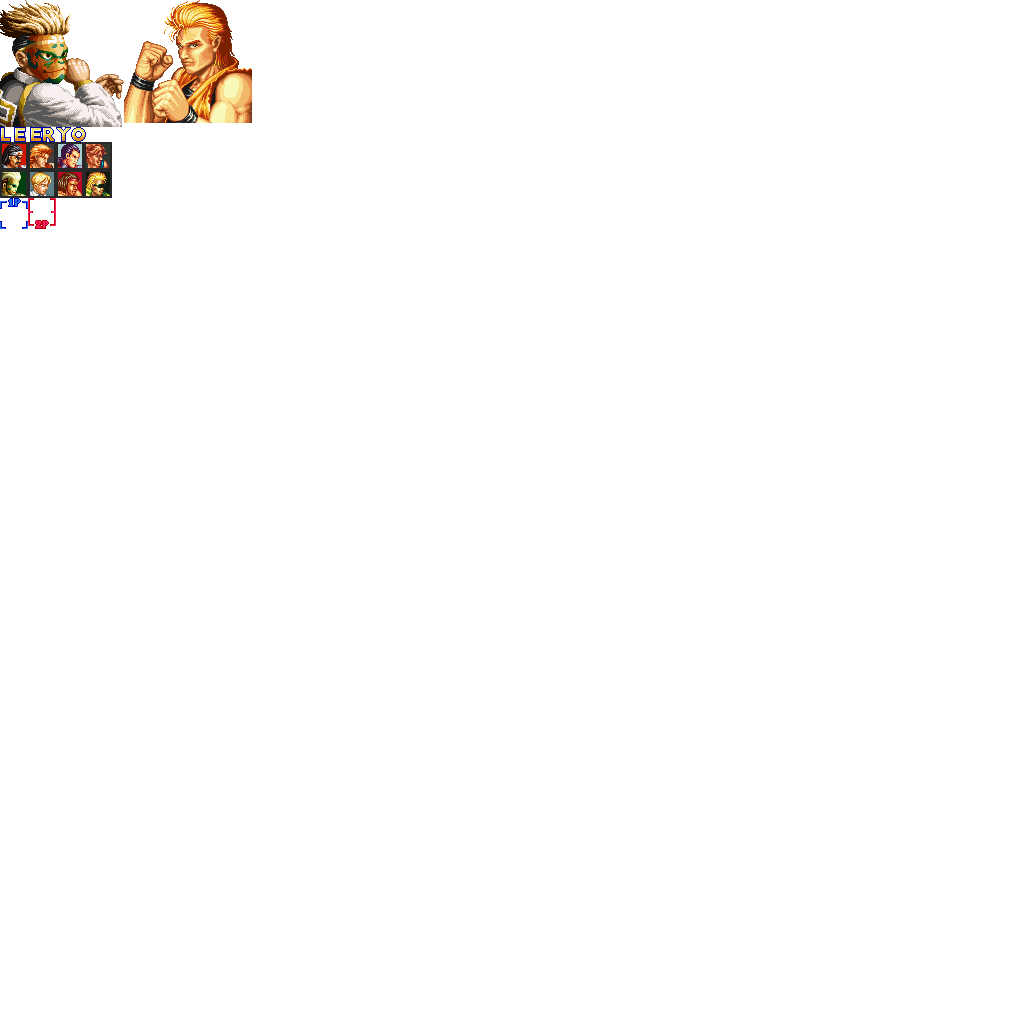
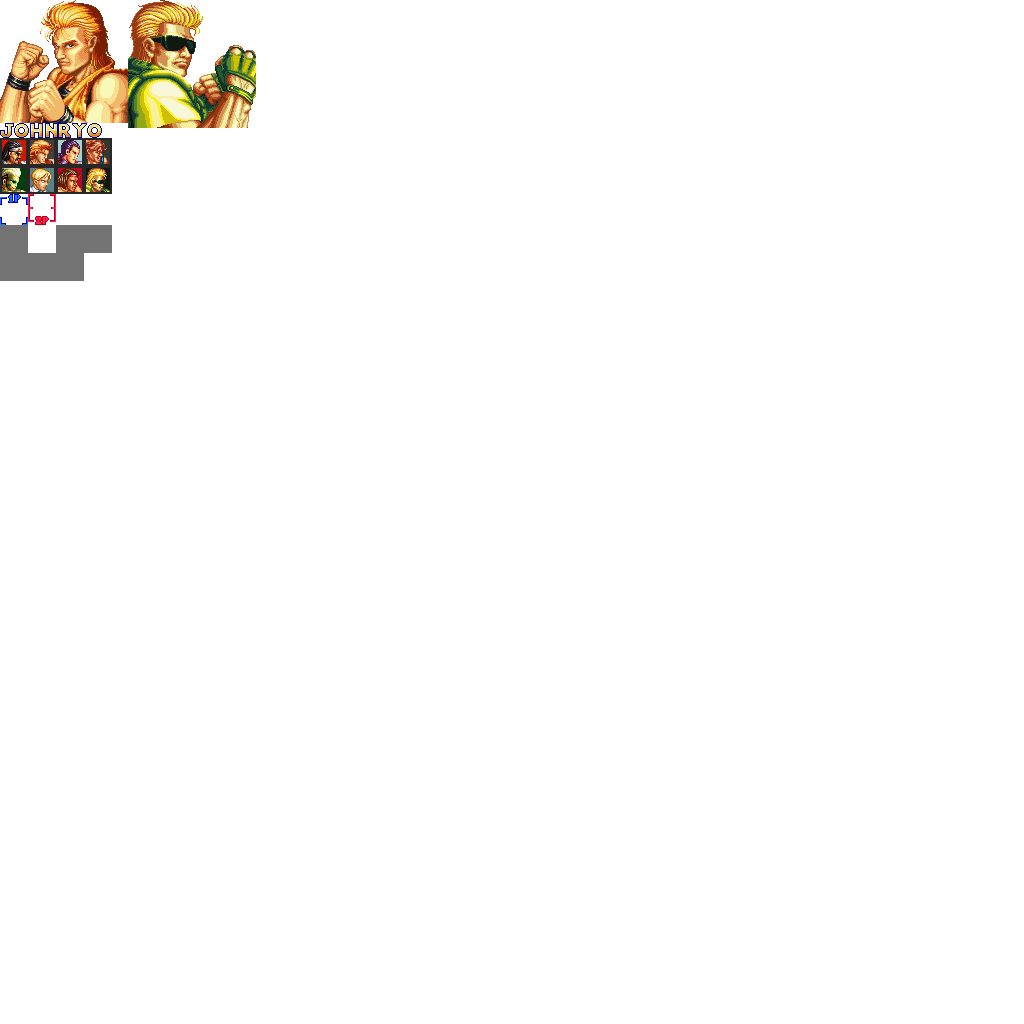
character selection (95%)

Changed region(s): [[0.0, 0.0, 0.25, 0.2812]]

diff --git a/Project_Art_Of_Fighting/ModuleCharacter_Selection.cpp b/Project_Art_Of_Fighting/ModuleCharacter_Selection.cpp
@@ -20,29 +20,44 @@ ModuleScreenSelection::ModuleScreenSelection() {
 	back.y = 0;
 
 	characters.rect.x = 0;
-	characters.rect.y = 142;
+	characters.rect.y = 138;
 	characters.rect.w = 112;
 	characters.rect.h = 56;
 
 	selector1.rect.x = 0;
-	selector1.rect.y = 198;
+	selector1.rect.y = 194;
 	selector1.rect.h = 31;
 	selector1.rect.w = 28;
 
 	selector2.rect.x = 28;
-	selector2.rect.y = 198;
+	selector2.rect.y = 194;
 	selector2.rect.h = 31;
 	selector2.rect.w = 28;
 
-	imageSelection1.rect.x = 124;
+	imageSelection1.rect.x = 0;
 	imageSelection1.rect.y = 0;
 	imageSelection1.rect.w = 128;
 	imageSelection1.rect.h = 123;
 
-	imageSelection2.rect.x = 0;
+	imageSelection2.rect.x = 128;
 	imageSelection2.rect.y = 0;
-	imageSelection2.rect.w = 124;
-	imageSelection2.rect.h = 127;
+	imageSelection2.rect.w = 128;
+	imageSelection2.rect.h = 128;
+
+	name1.rect.x = 0;
+	name1.rect.y = 123;
+	name1.rect.w = 58;
+	name1.rect.h = 15;
+
+	name2.rect.x = 58;
+	name2.rect.y = 123;
+	name2.rect.w = 44;
+	name2.rect.h = 15;
+
+	not_available.rect.x = 0;
+	not_available.rect.y = 225;
+	not_available.rect.w = 112;
+	not_available.rect.h = 56;
 }
 ModuleScreenSelection::~ModuleScreenSelection() {
 
@@ -69,17 +84,16 @@ update_status ModuleScreenSelection::Update() {
 	sprintf_s(time_char, 10, "%.0i", time_int);
 
 
-
+	choose();
 	draw();
 	move();
-	choose();
 	timer();
 	
 
 	return UPDATE_CONTINUE;
 }
 bool ModuleScreenSelection::CleanUp() {
-
+	//App->textures->Unload(graphics);
 	return true;
 }
 
@@ -146,13 +160,14 @@ void ModuleScreenSelection::timer() {
 	tick2 = SDL_GetTicks();
 }
 void ModuleScreenSelection::draw() {
-	App->render->Blit(graphics, (SCREEN_WIDTH / 2) - 56, (SCREEN_HEIGHT / 2) + 20, &characters); //Print Characters
-	App->fonts->BlitText((SCREEN_WIDTH / 2) - 83, 20, 1, "vs mode select player"); //Imprimir font de adalt. bug. no carga la font.
+	App->render->Blit(graphics, (SCREEN_WIDTH / 2) - 56, (SCREEN_HEIGHT / 2) + 50, &characters); //Print Characters
+	App->render->Blit(graphics, (SCREEN_WIDTH / 2) - 56, (SCREEN_HEIGHT / 2) + 50, &not_available); //Print Characters
+	App->render->Blit(graphics, X_SELECTOR_1, Y_SELECTOR_1, &selector1);
+	App->render->Blit(graphics, X_SELECTOR_2, Y_SELECTOR_2, &selector2);
+	App->fonts->BlitText((SCREEN_WIDTH / 2) - 83, 15, 1, "vs mode select player"); //Imprimir font de adalt. bug. no carga la font.
 	App->fonts->BlitText((SCREEN_WIDTH / 2) - 16, SCREEN_HEIGHT / 2 - 40, 2, "time");
 	App->fonts->BlitText((SCREEN_WIDTH / 2) - 8, SCREEN_HEIGHT / 2 - 32, 2, "0");
 	App->fonts->BlitText((SCREEN_WIDTH / 2), SCREEN_HEIGHT / 2 - 32, 2, time_char);
-	App->render->Blit(graphics, X_SELECTOR_1, Y_SELECTOR_1, &selector1);
-	App->render->Blit(graphics, X_SELECTOR_2, Y_SELECTOR_2, &selector2);
 }
 void ModuleScreenSelection::choose() {
 	if (((s1_pos_x == 2 && s2_pos_x == 4) || (s1_pos_x == 4 && s2_pos_x == 2)) && App->input->keyboard_state[SDL_SCANCODE_RETURN] == KEY_DOWN) {
@@ -160,16 +175,32 @@ void ModuleScreenSelection::choose() {
 			App->fade->FadeToBlack(App->character_selection, App->scene_john);
 		}
 	}
-
+	//RYO
 	if (s1_pos_x == 2 && s1_pos_y == 1) {
-		App->render->Blit(graphics, 0, 20, &imageSelection1, 1.0f, 2);
+		App->render->Blit(graphics, 35, 15, &imageSelection1, 1.0f, 2);
+		App->render->Blit(graphics, 77, 140, &name2, 1.0f, 1);
 		if (s2_pos_x == 2 && s2_pos_y == 1) {
-			App->render->Blit(graphics, SCREEN_WIDTH - 128, 20, &imageSelection1, 1.0f, 1);
-
+			App->render->Blit(graphics, SCREEN_WIDTH - 163, 15, &imageSelection1, 1.0f, 1);
+			App->render->Blit(graphics, 44 + SCREEN_WIDTH - 165, 140, &name2, 1.0f, 1);
 		}
 	}
 	else if (s2_pos_x == 2 && s2_pos_y == 1) {
-		App->render->Blit(graphics, SCREEN_WIDTH - 128, 20, &imageSelection1, 1.0f, 1);
+		App->render->Blit(graphics, SCREEN_WIDTH - 165, 15, &imageSelection1, 1.0f, 1);
+		App->render->Blit(graphics, 44 + SCREEN_WIDTH - 165, 140, &name2, 1.0f, 1);
+	}
 
+
+	//JOHN
+	if (s1_pos_x == 4 && s1_pos_y == 2) {
+		App->render->Blit(graphics, 35, 10, &imageSelection2, 1.0f, 1);
+		App->render->Blit(graphics, 70, 140, &name1, 1.0f, 1);
+		if (s2_pos_x == 4 && s2_pos_y == 2) {
+			App->render->Blit(graphics, SCREEN_WIDTH - 165, 10, &imageSelection2, 1.0f, 2);
+			App->render->Blit(graphics, 35 + SCREEN_WIDTH - 165, 140, &name1, 1.0f, 1);
+		}
+	}
+	else if (s2_pos_x == 4 && s2_pos_y == 2) {
+		App->render->Blit(graphics, SCREEN_WIDTH - 165, 10, &imageSelection2, 1.0f, 2);
+		App->render->Blit(graphics, 35+ SCREEN_WIDTH - 165, 140, &name1, 1.0f, 1);
 	}
 }

diff --git a/Project_Art_Of_Fighting/ModuleCharacter_Selection.h b/Project_Art_Of_Fighting/ModuleCharacter_Selection.h
@@ -30,13 +30,16 @@ public:
 	RectSprites imageSelection1;
 	RectSprites imageSelection2;
 	RectSprites characters;
+	RectSprites name1;
+	RectSprites name2;
+	RectSprites not_available;
 	SDL_Renderer* background;
 	SDL_Texture* graphics;
 
 	int X_SELECTOR_1 = ((SCREEN_WIDTH / 2) - 28);
-	int Y_SELECTOR_1 = ((SCREEN_HEIGHT / 2) + 17);
+	int Y_SELECTOR_1 = ((SCREEN_HEIGHT / 2) + 47);
 	int X_SELECTOR_2 = ((SCREEN_WIDTH / 2) - 0);
-	int Y_SELECTOR_2 = ((SCREEN_HEIGHT / 2) + 20);
+	int Y_SELECTOR_2 = ((SCREEN_HEIGHT / 2) + 50);
 
 	int s1_pos_x = 2;
 	int s2_pos_x = 3;
